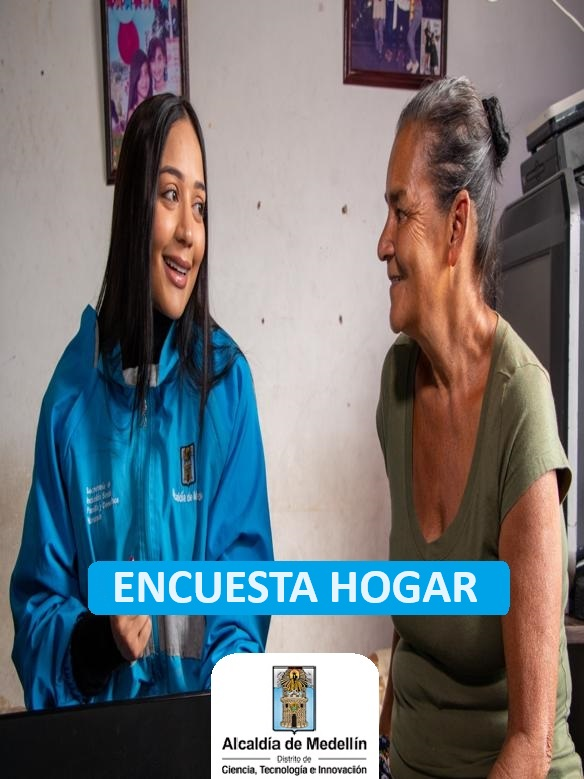
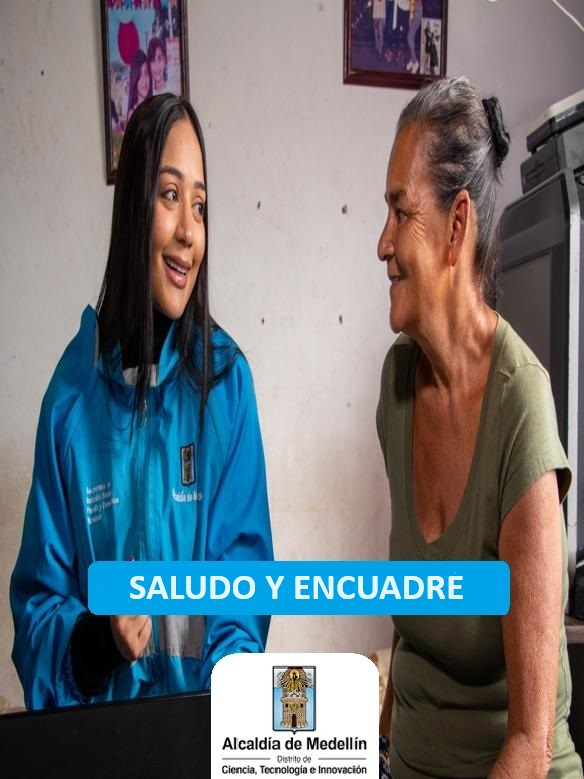
cards 4 momentos

Changed region(s): [[0.1849, 0.7086, 0.8322, 0.801]]

diff --git a/resources/views/v_rombointegrantes.blade.php b/resources/views/v_rombointegrantes.blade.php
@@ -45,7 +45,7 @@ body {
 .card .content {
     position: relative;
     width: 100%;
-    height: 100%;
+    height: 84%;
     transform-style: preserve-3d;
 }
 
@@ -150,6 +150,29 @@ body {
 
 <div class="swiper mySwiper container">
     <div class="swiper-wrapper">
+      <!-- primera tarjeta -->
+    <div class="swiper-slide">
+        <div class="card_wrapper">
+          <div class="card">
+            <div class="content">
+              <div class="front">
+                <img src="{{ asset('assets/img/iconos/card1.jpg')}}" alt="" />
+              </div>
+              <div class="back">
+                <div class="middle">
+                  <h3>
+                    <label>Saludo y encuadre</label>
+                  </h3>
+             </div>  
+             <button type="button" class="btn btn-primary" id="saludoencuadre">Ver saludo y encuadre</button>
+             <div class="smCard">
+                </div>
+              </div>
+            </div>
+          </div>
+        </div>
+      </div>
+      <!-- segunda tarjeta -->
       <div class="swiper-slide">
         <div class="card_wrapper">
           <div class="card">
@@ -177,7 +200,7 @@ body {
           <div class="card">
             <div class="content">
               <div class="front">
-                <img src="{{ asset('assets/img/iconos/card1.jpg')}}" alt="" />
+                <img src="{{ asset('assets/img/iconos/card3.jpg')}}" alt="" />
               </div>
               <div class="back">
                 <div class="middle">
@@ -193,6 +216,34 @@ body {
           </div>
         </div>
       </div>
+
+      <!-- 4ta tarjeta -->
+      <div class="swiper-slide">
+        <div class="card_wrapper">
+          <div class="card">
+            <div class="content">
+              <div class="front">
+                <img src="{{ asset('assets/img/iconos/card4.jpg')}}" alt="" />
+              </div>
+              <div class="back">
+                <div class="middle">
+                  <h3>
+                    <label>Resultado encuesta</label>
+                  </h3>
+             </div>  
+             <button type="button" class="btn btn-primary" id="resultadoencuesta">Ver resultado encuesta</button>
+             <div class="smCard">
+                </div>
+              </div>
+            </div>
+          </div>
+        </div>
+      </div>
+
+
+      <!-- 5ta tarjeta -->
+
+
       <!-- Agregar más swiper-slide según sea necesario -->
        <!-- Segunda tarjeta -->
        <!-- <div class="swiper-slide">
@@ -281,12 +332,12 @@ body {
                 nextEl: '.swiper-button-next',
                 prevEl: '.swiper-button-prev',
             },
-            slidesPerView: 2, // Número de tarjetas visibles por defecto
+            slidesPerView: 4, // Número de tarjetas visibles por defecto
             spaceBetween: 5, // Espacio entre las tarjetas
              breakpoints: {
                  // Cuando la pantalla es <= 1200px
                   1200: {
-                      slidesPerView: 3,
+                      slidesPerView: 4,
                       spaceBetween: 0,
                   },
                    // Cuando la pantalla es <= 992px
